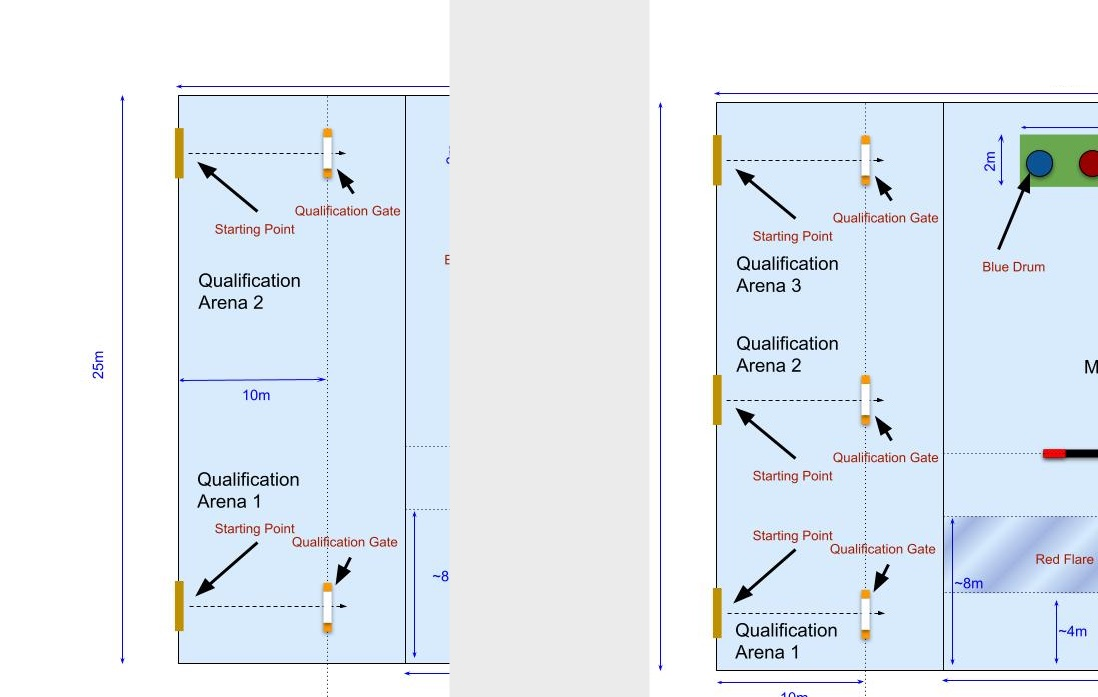
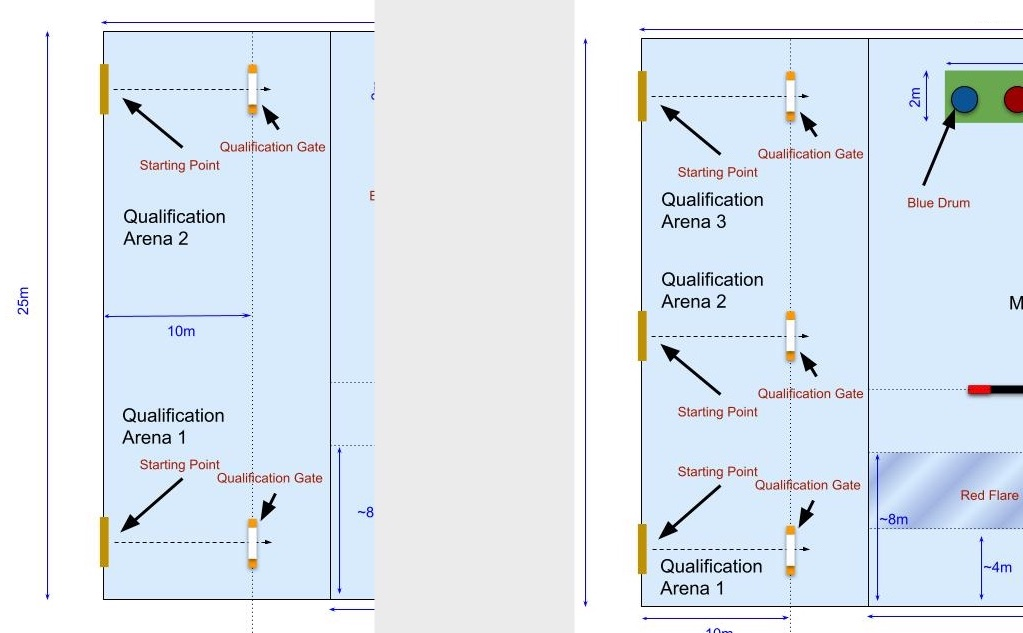
adding red flare to game presentation

diff --git a/index.html b/index.html
@@ -67,6 +67,11 @@
 			</section>
 
 			<section>
+				<h3> New! </h3>
+				<img src="img/red-flare.jpg" alt="arena-diff">
+			</section>
+
+			<section>
 				<h3> Safety </h3>
 				<div class="columns">
 					<div>
@@ -114,11 +119,11 @@
 				</div>
 			</section>
 
-			<!-- <section data-markdown>
+			<section data-markdown>
 				### Pre-qualification
 				- On Day 1 (23 September 2022, Fri), any team can request for *Prop Slots*.
 				- From Day 2 (24 September, Sat), only teams that have attempted qualification can request for *Prop Slots*.
-			</section> -->
+			</section>
 
 			<section data-markdown>
 				### Qualification Rounds
@@ -173,10 +178,13 @@
 				- **[5 Points]** bonus for ending (as opposed to aborting) an attempt.
 			</section>
 
-			<section data-markdown>
-				### Automatic Abort
-				- AUV touches the bottom or walls for more than 10 seconds or 5 times **will automatically abort** the current attempt.
-				- Divers will turn off the AUV (kill switch) and bring it back to the starting zone.
+			<section>
+				<h3>Automatic Abort</h3>
+				<ul>
+					<li> AUV touches the bottom or walls for more than 10 seconds or 5 times <strong>will automatically abort</strong> the current attempt.</li>
+					<li> <strong>NEW!!</strong> AUV touches the <span style="color:red;">Red Flare</span> <strong>will automatically abort</strong> the current attempt.</li>
+					<li> Divers will turn off the AUV (kill switch) and bring it back to the starting zone.</li>
+				</ul>
 			</section>
 
 			<section data-markdown>
